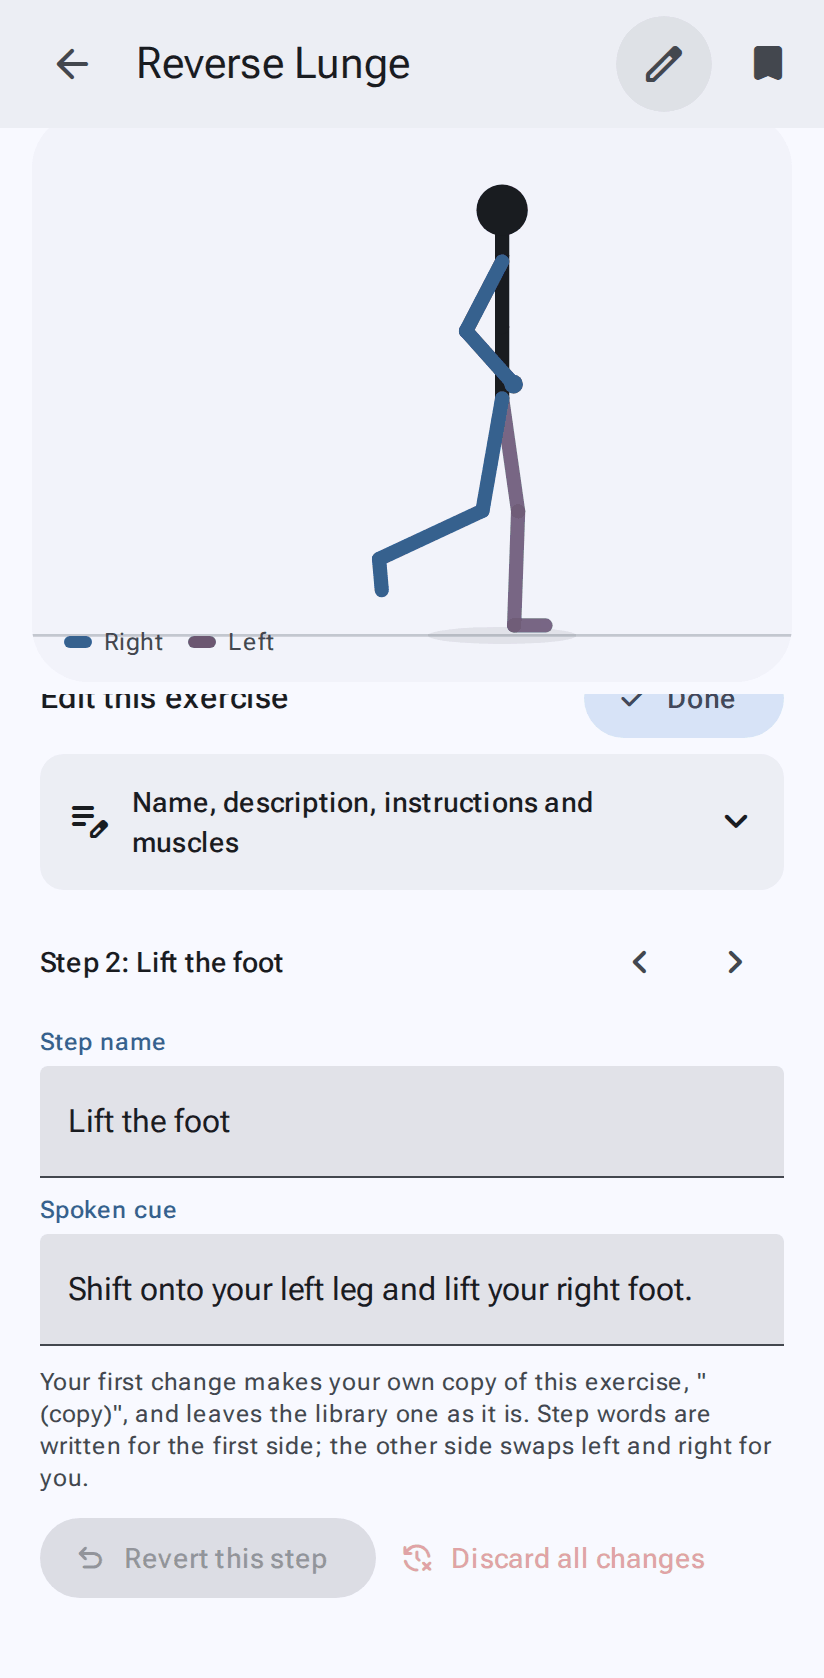
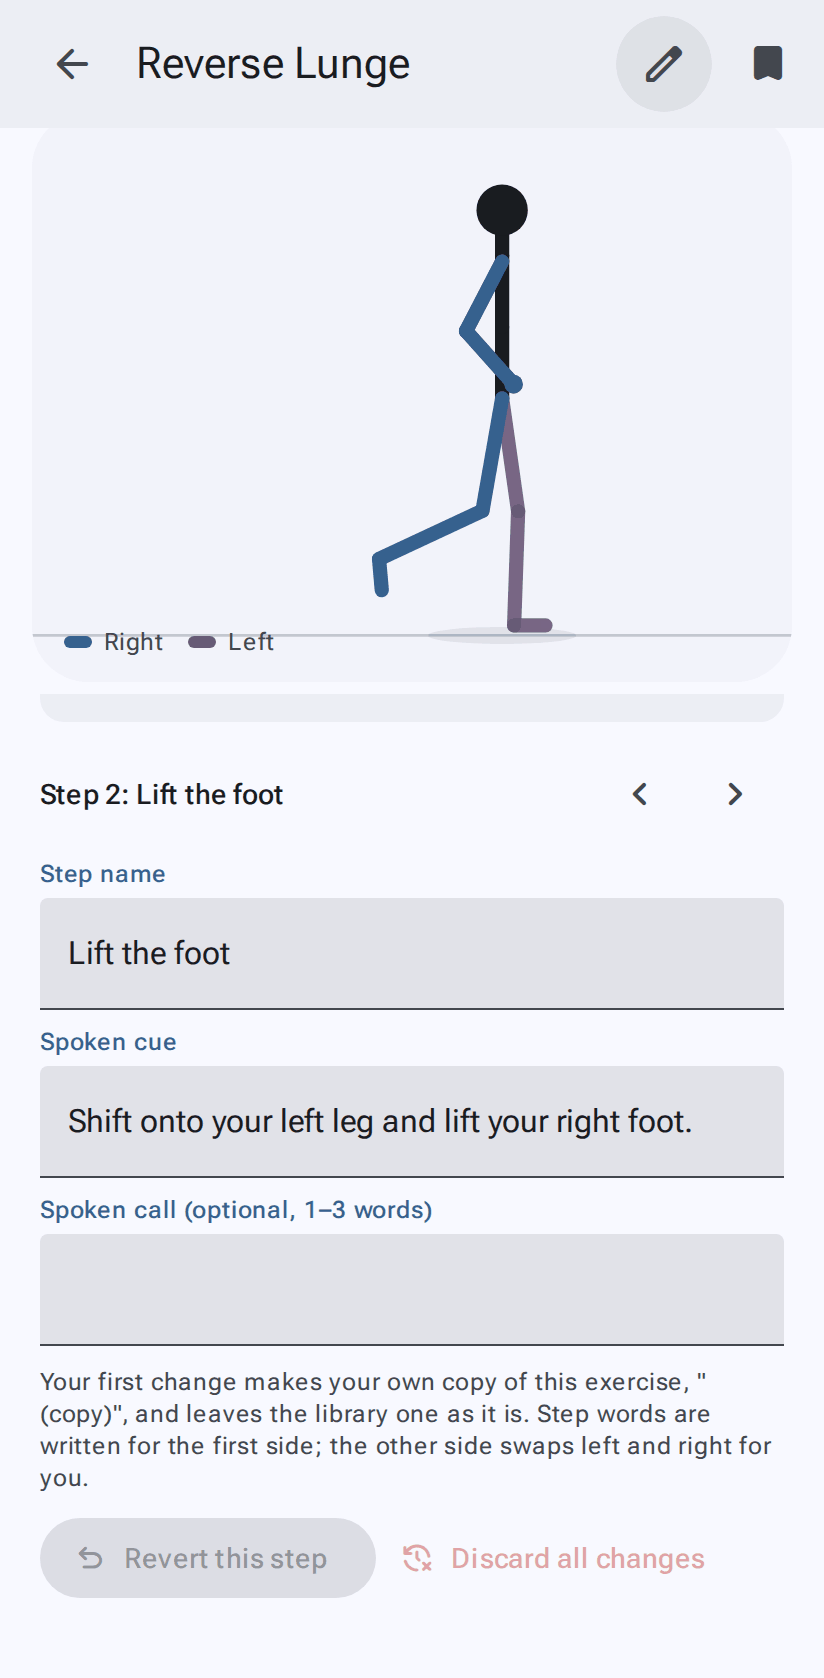
Step calls beyond the pilot: 20 more exercises, editor box, drafting tool
Calls where the next move isn't obvious: the ball passes, Squat to Calf Raise, the
ankle stretch, both cat-cows, Renegade Row, both Around the Worlds, Halo, and the Pilates
sequences (Boomerang, Control Balance, Corkscrew, Hip Twist, Crab, Jackknife, Neck Pull,
Push-Up, Seal), Inchworm. Not for plain up-down / left-right rhythms or steps too short
to say a word in.
- Editor: "Spoken call (optional, 1-3 words)" beside the spoken cue; refuses numbers
  and more than 3 words.
- The player says only a call that fits the rule (an imported one too).
- Create with AI prompt mentions the optional call.
- tools/calls.cjs lists counted multi-step exercises with their calls or a draft from
  the step names; exercise-research skill step 5b.
- step_calls.py: cat-cow, Around the World reversed. HANDOFF, wiki (Editing exercises,
  edit-words screenshot).

Claude-Session: https://claude.ai/code/session_0133kyx5MPf8aRU2sQwm2BG7

diff --git a/src/app/5-main.js b/src/app/5-main.js
@@ -124,7 +124,9 @@ $('#view-player').addEventListener('change', e => {
     return;
   }
   if (el.dataset.sfield) {
-    const k = el.dataset.sfield, v = el.value.trim(), i = S.idx;
+    const k = el.dataset.sfield, v = el.value.trim().replace(/\s+/g, ' '), i = S.idx;
+    // a call is a word or three, never a number (it would sound like a count): HANDOFF §3
+    if (k === 'call' && v && !/^[^0-9\s]+( [^0-9\s]+){0,2}$/.test(v)) { snack('A call is 1 to 3 words, with no numbers (they would sound like a count).', 5000); el.value = S.ex.keyframes[i].call || ''; return; }
     if (!editExercise(ex => { const kf = ex.keyframes[i]; if (v) kf[k] = v; else delete kf[k]; })) return;
     rebuild(); S.shownIdx = -1; renderPlayerInfo(); draw();
   }
@@ -144,7 +146,8 @@ function updateEditor() {
           <button class="stateful" data-view="front"><span class="icon">check</span>Front</button></div>
         <div class="segmented" id="edStepSeg" role="group" aria-label="Change by">${[1, 5, 15].map(n => `<button class="stateful" data-edstep="${n}"><span class="icon">check</span>${n}°</button>`).join('')}</div></div>
       <div class="step-text"><label class="field"><span class="field-label">Step name</span><input id="edStepName" data-sfield="name" autocomplete="off"></label>
-        <label class="field"><span class="field-label">Spoken cue</span><input id="edStepCue" data-sfield="cue" autocomplete="off"></label></div>
+        <label class="field"><span class="field-label">Spoken cue</span><input id="edStepCue" data-sfield="cue" autocomplete="off"></label>
+        <label class="field"><span class="field-label">Spoken call (optional, 1–3 words)</span><input id="edStepCall" data-sfield="call" autocomplete="off" maxlength="40"></label></div>
       <p class="body-small muted" id="edNote" style="margin:0 0 8px"></p>
       <div class="joints authoring-only">${POSE_ROWS.map(({ key, label }) => `<div class="joint" data-jrow="${key}"><span class="jl">${label}</span>
         <button class="icon-btn stateful jbtn" data-jdelta="-1" data-joint="${key}" aria-label="${label}: less"><span class="icon">remove</span></button>
@@ -160,6 +163,7 @@ function updateEditor() {
   // the step's words as written (for the first side; the other side's left/right are swapped for you)
   if (document.activeElement !== $('#edStepName')) $('#edStepName').value = kf.name || '';
   if (document.activeElement !== $('#edStepCue')) $('#edStepCue').value = kf.cue || '';
+  if (document.activeElement !== $('#edStepCall')) $('#edStepCall').value = kf.call || '';
   const labels = (S.ex.bilateral && S.ex.bilateral.labels) || {};
   $('#edNote').textContent = (findInDb(S.ex.id) ? 'Your first change makes your own copy of this exercise, "(copy)", and leaves the library one as it is. ' : 'Changes are saved as you go. ')
     + (!authoring() ? 'Step words are written for the first side; the other side swaps left and right for you.'

diff --git a/src/app/4-workouts.js b/src/app/4-workouts.js
@@ -699,7 +699,7 @@ function buildPlan(item, segInfo) {
       // a step's call ("Forward", "Out to the right") as it starts; never on the rep's first step, where the count is said.
       // Rep 1's first step is already in place after "Ready… Begin.": it waits as long as the move would have taken, so
       // the rep keeps its rhythm and "1" has time before the next step's call
-      ph.rep.forEach((i, j) => push(voiced && k === 0 && j === 0 ? { ...V[i], dur: 0, hold: V[i].hold + V[i].dur } : V[i], { phase: 'rep', repNo: j === 0 ? Math.floor(k / versions.length) + 1 : null, repOf: item.reps, alt: versions.length > 1 ? k % versions.length : null, ...(voiced && j > 0 && V[i].call ? { call: V[i].call } : {}) }));
+      ph.rep.forEach((i, j) => push(voiced && k === 0 && j === 0 ? { ...V[i], dur: 0, hold: V[i].hold + V[i].dur } : V[i], { phase: 'rep', repNo: j === 0 ? Math.floor(k / versions.length) + 1 : null, repOf: item.reps, alt: versions.length > 1 ? k % versions.length : null, ...(voiced && j > 0 && CALL_OK.test(V[i].call || '') ? { call: V[i].call } : {}) }));
     }
   }
   const VL = versions[versions.length - 1].R;
@@ -957,6 +957,7 @@ function runCurrent(announce) {
    a finished phrase as each set (and side) ends ("Last one. Finished!"; Oct 2026).
    WP.random can be replaced (tests). */
 const READY_BEGIN = 'Ready… Begin.', WATCH_FIRST = 'Watch me first.';
+const CALL_OK = /^[^0-9\s]+( [^0-9\s]+){0,2}$/;                // a step call: 1-3 words, no numbers (an imported one too)
 // the first of each is the plain word, said when words of encouragement are off. Cheers stay short: one in place of a
 // count that is still being said when the next count comes drops it. (More words, owner, Oct 2026.)
 const CHEERS = ['Good', 'Keep going', 'Breathe', 'Doing great', 'Nice', 'Steady', "That's it", 'Nice work', 'Looking good'];

diff --git a/src/body.html b/src/body.html
@@ -356,7 +356,7 @@ travel: true if it moves across the floor (walking lunge, band walk); write one 
 props: list of EQUIPMENT drawn with the figure; keyframes: list of KEYFRAME
 
 KEYFRAME fields:
-name: a short step name; cue: one instruction
+name: a short step name; cue: one instruction; call (optional): 1-3 words said as the step starts while counting reps, only when the next move isn't obvious ("Forward", "Roll back"; not on a rep's first step, no numbers)
 camera: where you watch from, 90 = side, 0 = front
 durationMs: time to move into the pose (1500); holdMs: time held (30000 for a 30 s hold)
 phase (optional): "setup" played once first, "rep" one rep or the hold, "finish" once at the end

diff --git a/tools/e2e/step_calls.py b/tools/e2e/step_calls.py
@@ -44,6 +44,14 @@ async def main():
         log = await run(b, 'voice', {'ex': 'kb-turkish-get-up', 'o': '{ reps: 1 }'}, errs)
         i = log.index('Ready… Begin.')
         print('get-up                  ', ' · '.join(log[i + 1:-1]), '<- 1 · Elbow · Hand · Hips · Sweep · Kneel · Stand · Kneel · Hand down · Leg through · Sit · Elbow')
+        # the library's other calls (Oct 2026): cat-cow; Around the World the other way round (the count takes the step
+        # it starts on, its call isn't said)
+        log = await run(b, 'voice', {'ex': 'yoga-cat-cow', 'o': '{ reps: 2 }'}, errs)
+        i = log.index('Ready… Begin.')
+        print('cat-cow                 ', ' '.join(log[i + 1:i + 7]), '<- 1 Cow Cat Last one Cow Cat')
+        log = await run(b, 'voice', {'ex': 'kb-around-the-world', 'o': "{ reps: 1, dir: 'B' }"}, errs)
+        i = log.index('Ready… Begin.')
+        print('around the world, back  ', ' '.join(log[i + 1:i + 4]), "<- 1 Behind Right (it starts on Left, where the count is)")
         # NstructR+ demonstrates an exercise when you come to it and each side the first time it comes up; not again for
         # its next sets; again when it comes back later ("Watch me first." on each appearance's first demonstration)
         async def demos(items):

diff --git a/HANDOFF.md b/HANDOFF.md
@@ -257,7 +257,7 @@ same foot; now the other foot comes in to meet it, lifting on a quiet in-between
 | `ease` | `"smooth"` (default, ease-in-out) or `"linear"` (constant speed — circles). |
 | `phase` | `"setup"` (played once first), `"rep"` (one rep; for timed exercises the hold), `"finish"` (once at the end). No phases = the whole loop is one rep. |
 | `quiet` | NstructR+ doesn't read this step (in-between points of a circle). |
-| `call` | Step call (pilot, Oct 2026): 1–3 words, no digits, said as the step starts during the counted reps (NstructR, NstructR+; skipped if still talking, so counts win), so a multi-step rep is followed by ear: "1 … Forward. Right. Back. Left." Not on the rep's first step (the count is there; the build checks it, and that a call fits its step at 2.5 words a second). The other side swaps left and right. Only where the next move isn't obvious: the star excursions, Clock Reach, the get-ups. Rep 1's first step, already in place after "Ready… Begin.", waits as long as its move so "1" has room. `tools/e2e/step_calls.py`. |
+| `call` | Step call (pilot, Oct 2026): 1–3 words, no digits, said as the step starts during the counted reps (NstructR, NstructR+; skipped if still talking, so counts win), so a multi-step rep is followed by ear: "1 … Forward. Right. Back. Left." Not on the rep's first step (the count is there; the build checks it, and that a call fits its step at 2.5 words a second). The other side swaps left and right. Only where the next move isn't obvious (Oct 2026, 26 exercises): the star excursions, Clock Reach, the get-ups, the ball passes, Squat to Calf Raise, the ankle stretch, cat-cow, Renegade Row, around-the-world and Halo, and the Pilates sequences (Boomerang, Control Balance, Corkscrew, Hip Twist, Crab, Jackknife, Neck Pull, Push-Up, Seal), Inchworm; not a plain up–down or left–right rhythm (marches, lunges, step-ups, the saw) or steps too short to say a word in (leg, hip and arm circles, burpees, cleans). `node tools/calls.cjs` lists the candidates with drafts from the step names (the exercise-research skill, step 5b); the editor has a "Spoken call" box (1–3 words, no numbers); Create with AI may write them; the player says only a call that fits the rule (an imported one too). Rep 1's first step, already in place after "Ready… Begin.", waits as long as its move so "1" has room. `tools/e2e/step_calls.py`. |
 | `anchor`, `anchorX`, `anchorZ` | Point pinned to the floor/surface at world (anchorX, anchorZ) (sideways, forward; default 0, 0). Without an anchor the pelvis is there and the lowest point rests on the floor. For an exercise whose camera turns, put the point where it looks the same from both (the Star Excursions pin the standing foot at x −40, z 40). |
 | `lift` | Airborne (a jump): the whole figure that far above where it would rest, anchor or not; the move into and out of it rises and lands smoothly. The checks count it as meant, not floating. Short steps (300–400 ms): Jump Squat 45, Jumping Jacks 20, High Knees 6 (a hop as the standing foot swaps, with `anchorX` keeping the pelvis still). |
 | `anchorY` | Hanging (Sep 2026): the anchor (a hand on a pull-up bar) is held at this height instead of on the floor; a move with a hanging step at either end is only kept out of the floor, not rested on it, and a hanging step isn't re-pinned to a contact it shares with the step before. The checks expect the anchor at anchorY. Pull-Up, Chin-Up, Dead Hang, Hanging Knee Raise (bar at 385: hands overhead reach 361 standing). Getting on and off (`withMount` in `tools/variants/batch-11-hanging.cjs`): stand, reach up with the arms as they'll hang, bend the knees (a crouch), jump to the bar (450 ms); let go and land deep with the arms still up (knees 85°), then stand and lower them. Between two hanging steps the hand that isn't the anchor is held where it grips (`frameAt`), so it doesn't slide along the bar. |

diff --git a/wiki/Editing-exercises.md b/wiki/Editing-exercises.md
@@ -5,7 +5,7 @@
 Tap the **pencil** at the top of an exercise page to edit it. The figure stays at the top of the screen while
 you edit, and **Done** closes the editor.
 
-<img src="images/edit-words.png" width="300" alt="Editing the words: step name and spoken cue">
+<img src="images/edit-words.png" width="300" alt="Editing the words: step name, spoken cue and spoken call">
 
 ## Changing the words (everyone)
 
@@ -15,6 +15,9 @@ you edit, and **Done** closes the editor.
   whether it's **Stretched**; the map in About changes as you go.
 - **Each step**: its name and the **spoken cue** (the line read out in NstructR and NstructR+ modes). Use ‹ › to move
   between steps.
+- **Spoken call** (optional): one to three words said as the step starts while the reps are counted, for exercises
+  with several moves a rep ("1 … Forward. Right. Back. Left."). Leave it empty unless the next move isn't obvious; it's
+  never said on a rep's first step (the count is there), and it can't be a number.
 - Write steps for the first side only; the other side swaps left and right for you.
 
 **Library exercises stay as they are.** Your first real change makes your own copy, "Name (copy)", in

diff --git a/.claude/skills/exercise-research/SKILL.md b/.claude/skills/exercise-research/SKILL.md
@@ -70,6 +70,13 @@ stabilizer (3 / 2 / 1): search `exrx.net <exercise>` and map its muscles to the 
 pose, Pilates move or stretch is rated from its own source (Yoga Journal names what a pose strengthens and stretches).
 An equipment version rates like the rest of its group (the build warns otherwise). Unsure: ask the owner.
 
+## 5b. Step calls (`tools/calls.cjs`)
+A counted exercise with several steps a rep may need step calls (a keyframe's `call`, HANDOFF §3): 1–3 words said as the
+step starts ("1 … Forward. Right. Back. Left."). `node tools/calls.cjs <id>` shows its steps with a draft from the step
+names. Add calls only where the next move isn't obvious (a star excursion's directions, a get-up's stages, a Pilates
+sequence); not for a plain up–down or left–right rhythm, or steps too short to say a word in (the build checks the fit).
+Never on the rep's first step (the count is there), never a number. An equipment version gets the same calls.
+
 ## 6. Before the pull request
 - `node tools/build.mjs --check-only` passes.
 - The Create with AI prompt lists every exercise: check it still fits in a link (HANDOFF §10, "Create with AI":
